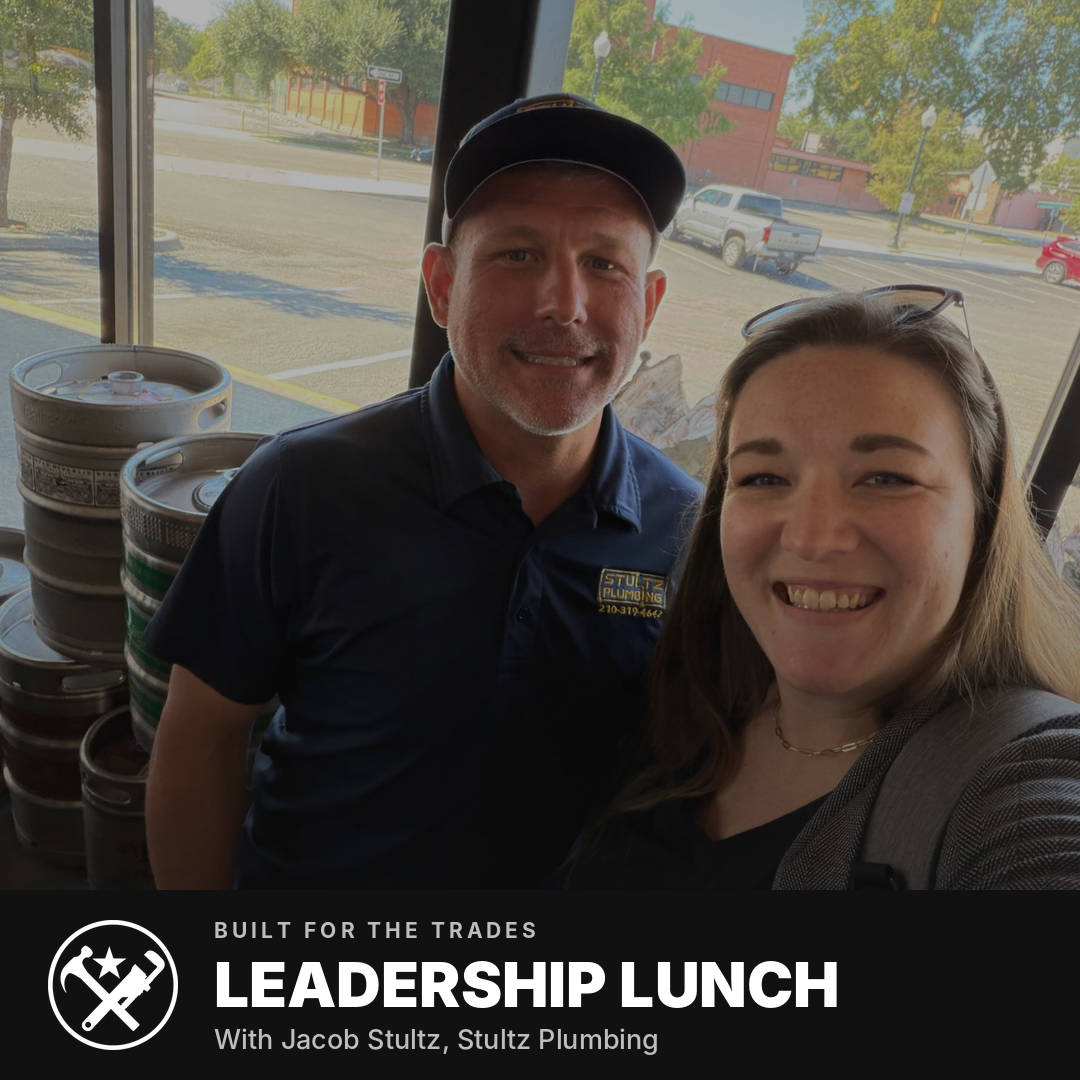
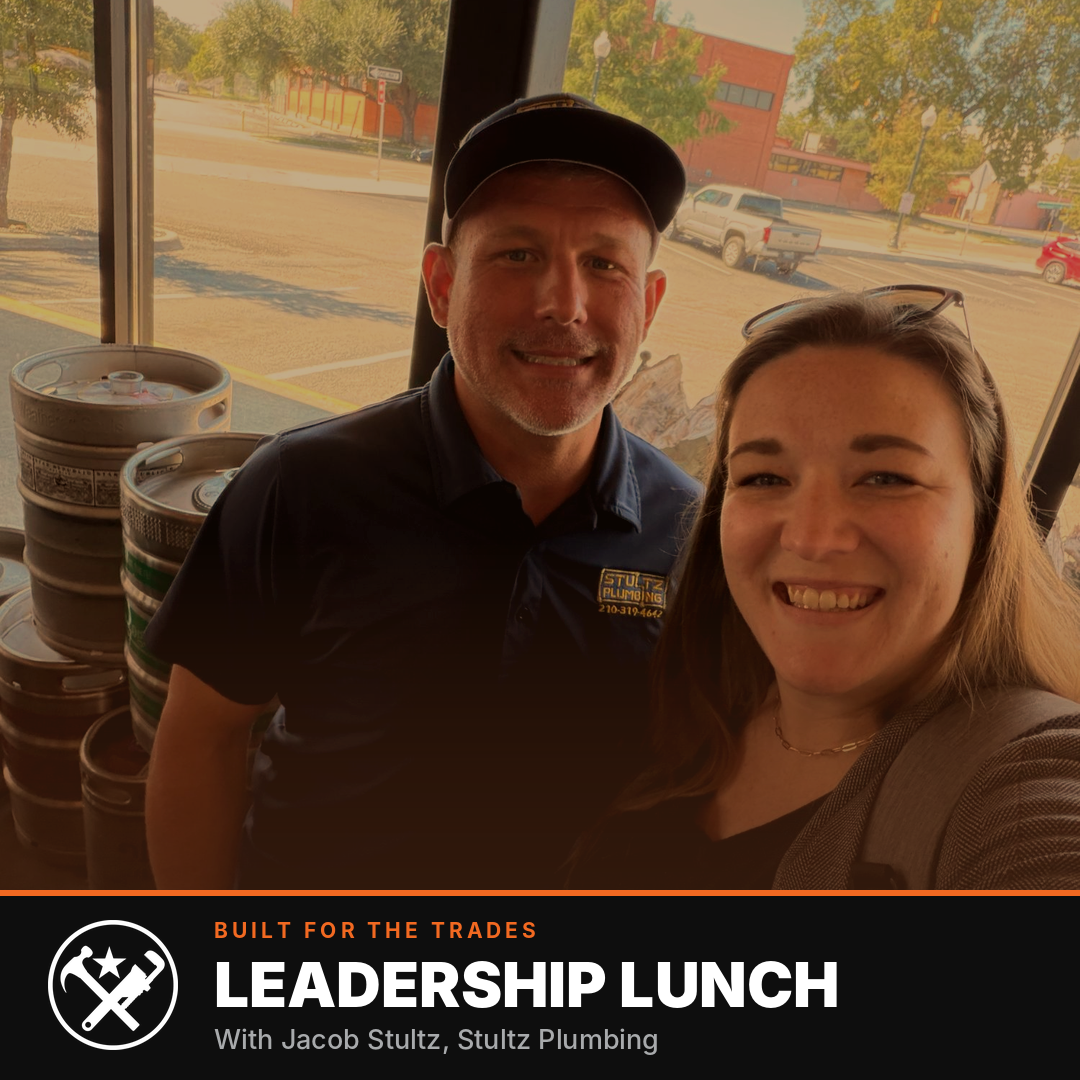
Apply dark, warm brand grade with orange accents
- Replace flat dark tint with a warm cast + warm shadow blend + orange
  ember fading into the band (WARM / SHADOW / TINT / EMBER settings)
- Add black/white/industrial-grey/orange palette; orange rule above the
  band and orange brand label (hex values are placeholders)

Claude-Session: https://claude.ai/code/session_01S2DvsM7J99RSaBQsJzDE5i

diff --git a/scripts/brand_photos.py b/scripts/brand_photos.py
@@ -6,27 +6,34 @@ Edit BRAND and SLIDES below; everything else is layout code.
 """
 from pathlib import Path
 
-from PIL import Image, ImageDraw, ImageFont
+from PIL import Image, ImageChops, ImageDraw, ImageEnhance, ImageFont
 
 ROOT = Path(__file__).resolve().parent.parent
 
-# --- Brand settings (PLACEHOLDERS: black/white taken from the logo; swap in the real palette/fonts) ---
+# --- Brand settings: black, white, industrial grey, orange. The exact hex values and fonts are
+# PLACEHOLDERS until the official brand guide is dropped in. ---
 BRAND = {
     "name": "BUILT FOR THE TRADES",
     "logo": ROOT / "brand" / "logo-original.webp",  # black art on transparent background
-    "band": (17, 17, 17),         # band background
-    "text": (255, 255, 255),      # headline + logo
-    "muted": (190, 190, 190),     # subline
+    "band": (14, 14, 14),         # band background (black)
+    "text": (255, 255, 255),      # headline + logo (white)
+    "muted": (168, 170, 172),     # subline (industrial grey)
+    "accent": (242, 105, 33),     # orange: label text + rule above the band
     "font_head": "/usr/share/fonts/opentype/inter/Inter-Black.otf",
     "font_body": "/usr/share/fonts/opentype/inter/Inter-Medium.otf",
     "font_label": "/usr/share/fonts/opentype/inter/Inter-Bold.otf",
 }
 
 SIZE = 1080       # square post
-TINT = 0.32       # uniform darkening of the photo (0 = none, 1 = black)
-FADE = 0.45       # extra darkening at the bottom edge, fading in to the band
-FADE_H = 0.45     # how much of the photo height the fade covers
-BAND_H = 190      # height of the branded band
+WARM = (255, 218, 178)   # multiplied over the photo to push highlights/skin warm
+SHADOW = (38, 16, 6)     # warm near-black the photo is blended toward
+TINT = 0.28              # how far toward SHADOW (0 = none, 1 = solid)
+CONTRAST = 1.12
+FADE = 0.45              # darkening at the bottom edge, fading into the band
+FADE_H = 0.40            # fraction of the photo height the fade covers
+EMBER = 0.28             # orange glow strength along the bottom of the photo
+RULE_H = 6               # orange rule between photo and band
+BAND_H = 190             # height of the branded band
 PAD = 48          # side padding
 
 # focus = (x, y) in the ORIGINAL photo that the crop should be centered on.
@@ -58,12 +65,14 @@ def cover_crop(img, w, h, focus):
     return img.crop((left, top, left + cw, top + ch)).resize((w, h), Image.LANCZOS)
 
 
-def darken(img, color):
-    """Tint the whole photo, then fade its bottom edge into the band color."""
-    img = Image.blend(img, Image.new("RGB", img.size, color), TINT)
+def grade(img, band, accent):
+    """Dark, warm grade: warm cast + shadow tint + orange ember at the base, fading into the band."""
+    img = ImageEnhance.Contrast(ImageChops.multiply(img, Image.new("RGB", img.size, WARM))).enhance(CONTRAST)
+    img = Image.blend(img, Image.new("RGB", img.size, SHADOW), TINT)
     fade_h = int(img.height * FADE_H)
-    ramp = Image.linear_gradient("L").resize((img.width, fade_h)).point(lambda v: int(v * FADE))
-    img.paste(Image.new("RGB", (img.width, fade_h), color), (0, img.height - fade_h), ramp)
+    ramp = Image.linear_gradient("L").resize((img.width, fade_h))
+    img.paste(Image.new("RGB", (img.width, fade_h), accent), (0, img.height - fade_h), ramp.point(lambda v: int(v * EMBER)))
+    img.paste(Image.new("RGB", (img.width, fade_h), band), (0, img.height - fade_h), ramp.point(lambda v: int(v * FADE)))
     return img
 
 
@@ -99,12 +108,13 @@ def render(slide):
     b = BRAND
     canvas = Image.new("RGB", (SIZE, SIZE), b["band"])
     photo = Image.open(slide["photo"]).convert("RGB")
-    canvas.paste(darken(cover_crop(photo, SIZE, SIZE - BAND_H, slide["focus"]), b["band"]), (0, 0))
+    canvas.paste(grade(cover_crop(photo, SIZE, SIZE - BAND_H, slide["focus"]), b["band"], b["accent"]), (0, 0))
 
     # Logo, vertically centered in the band
     logo_h = BAND_H - 60
     logo = tinted_logo(b["logo"], logo_h, b["text"])
     band_top = SIZE - BAND_H
+    ImageDraw.Draw(canvas).rectangle((0, band_top, SIZE, band_top + RULE_H - 1), fill=b["accent"])
     canvas.paste(logo, (PAD, band_top + (BAND_H - logo_h) // 2), logo)
 
     # Text block to the right of the logo
@@ -118,7 +128,7 @@ def render(slide):
     lh, hh, sh = 21, head.size, sub.size
     gap1, gap2 = 14, 12
     y = band_top + (BAND_H - (lh + gap1 + hh + gap2 + sh)) // 2
-    draw_tracked(draw, (tx, y), b["name"], label, b["muted"], 4)
+    draw_tracked(draw, (tx, y), b["name"], label, b["accent"], 4)
     draw.text((tx, y + lh + gap1 - 6), slide["headline"], font=head, fill=b["text"])
     draw.text((tx, y + lh + gap1 + hh + gap2 - 4), slide["subline"], font=sub, fill=b["muted"])
     return canvas
